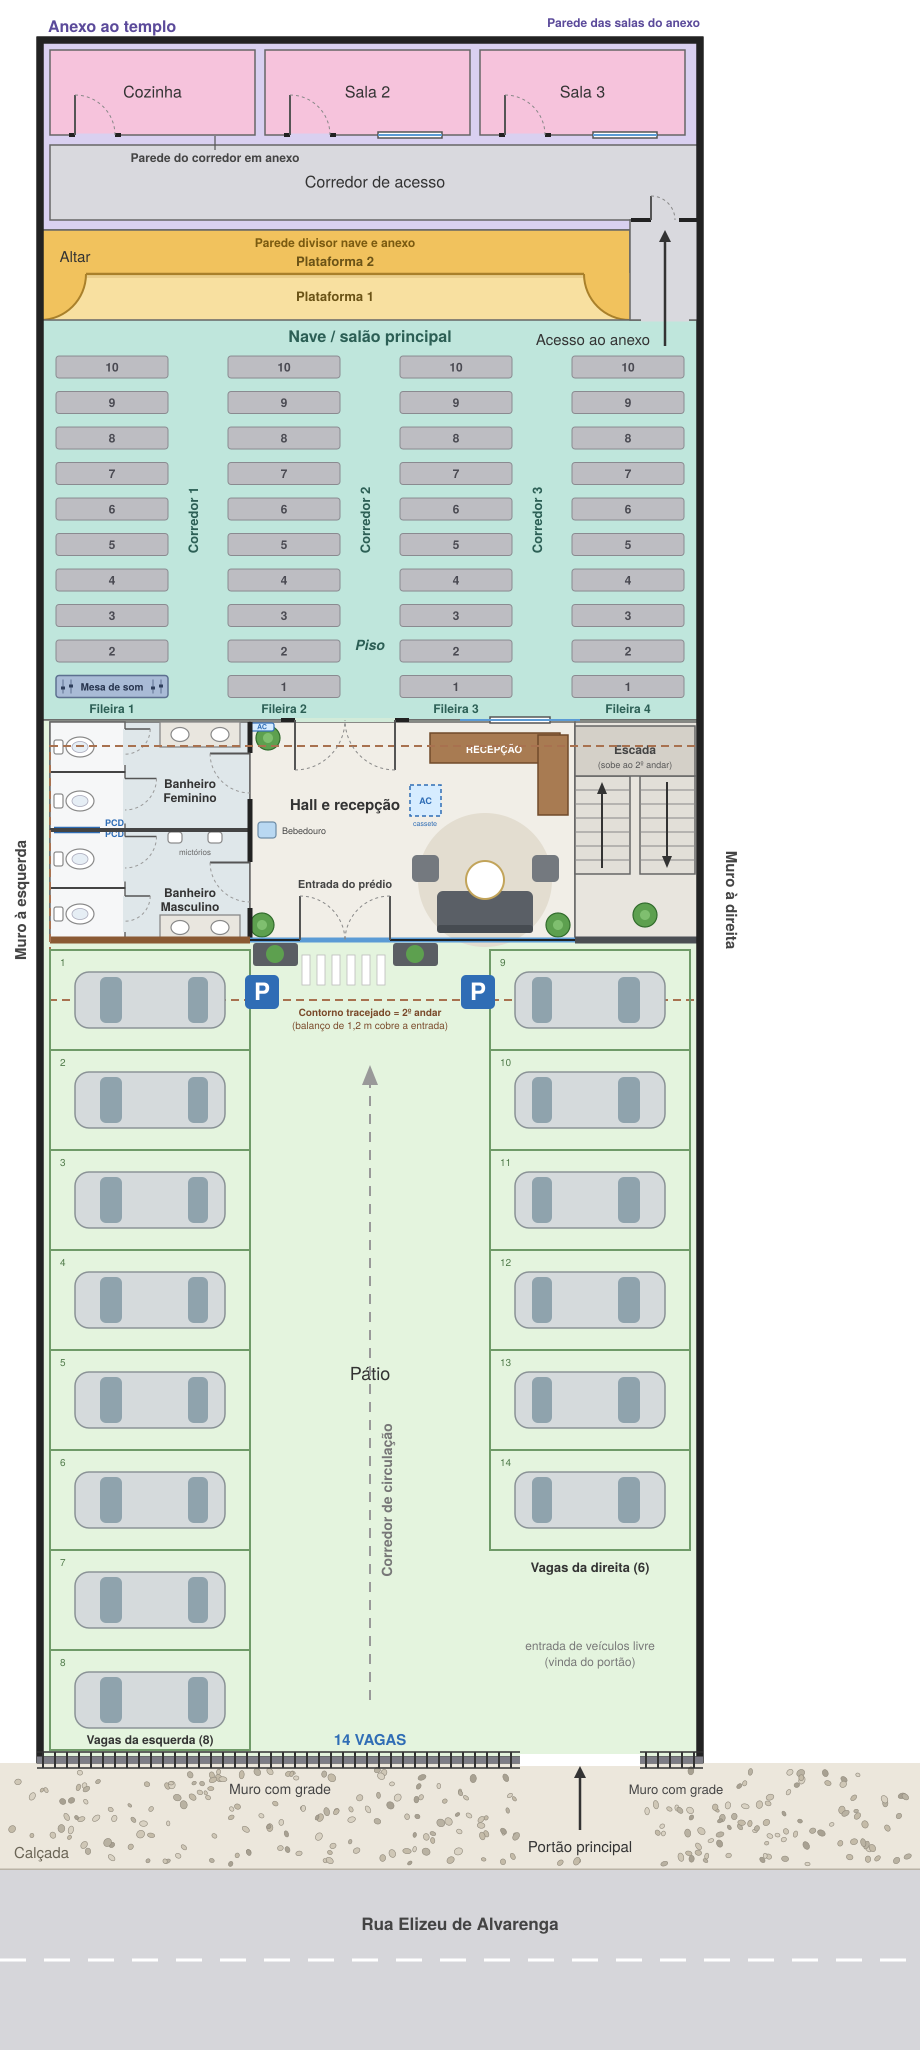
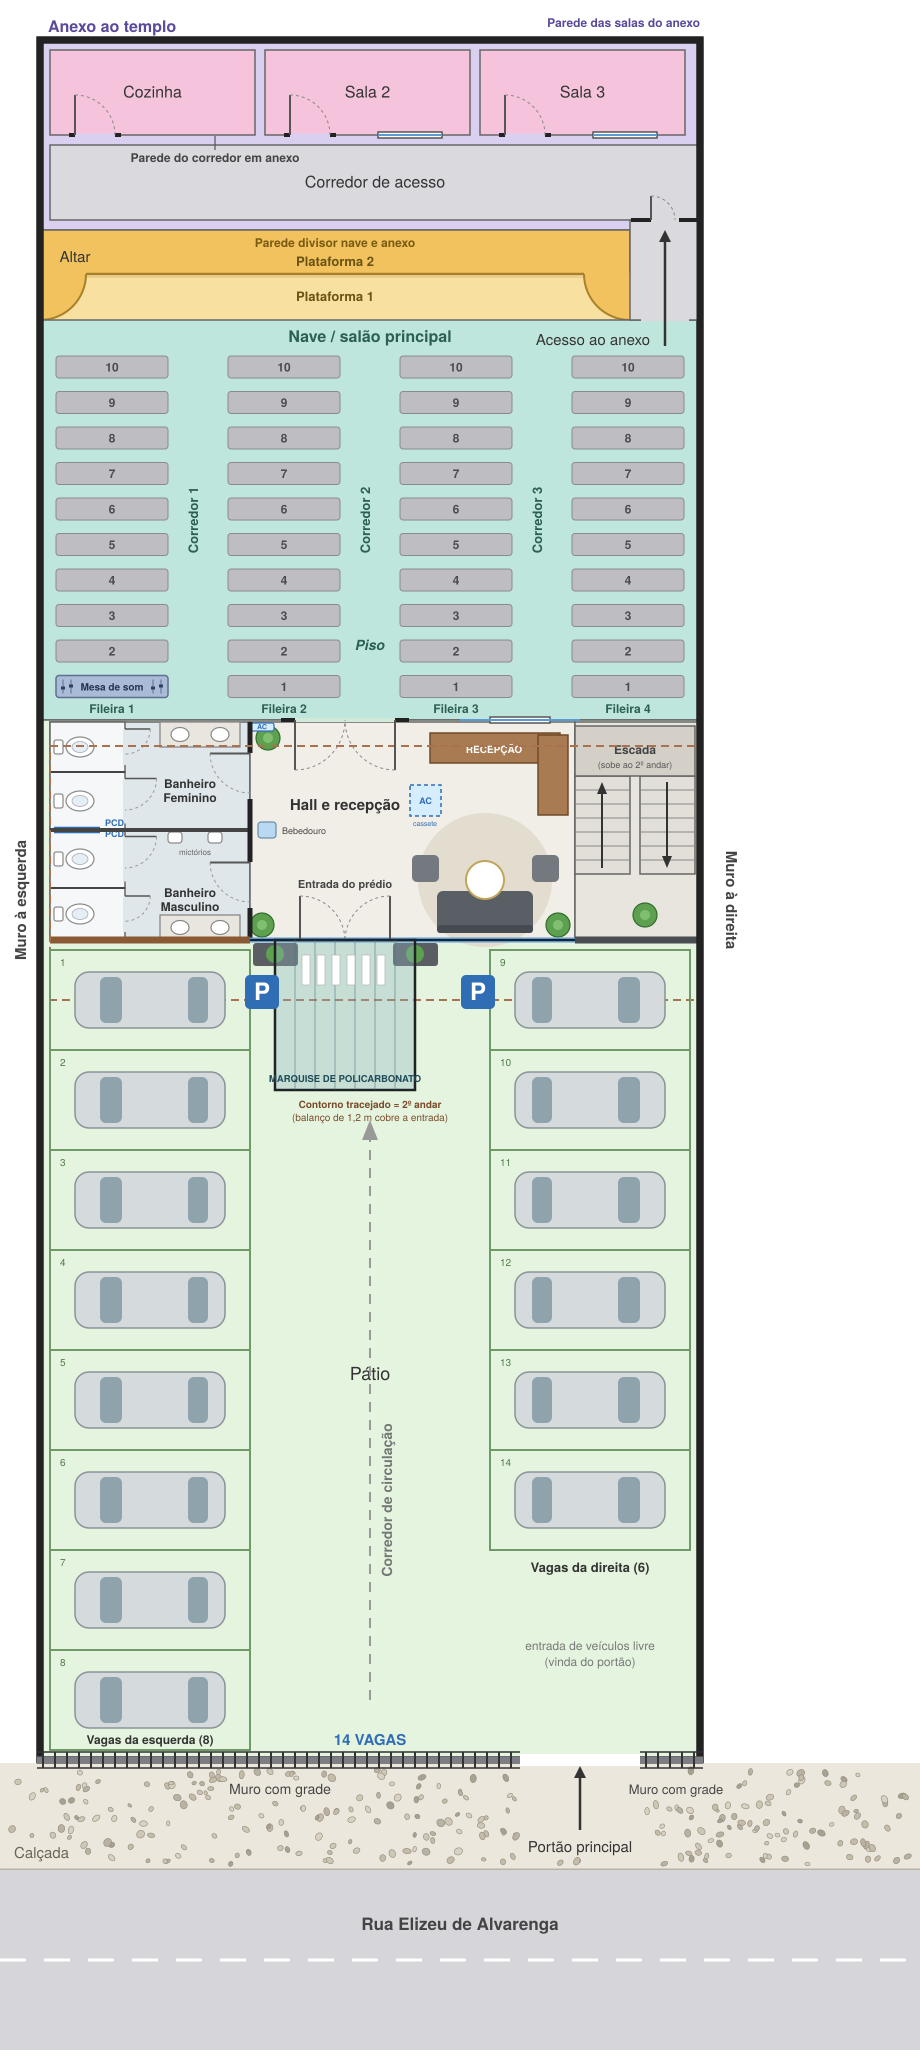
Projeto 1: marquise de policarbonato sobre a porta de entrada
Claude-Session: https://claude.ai/code/session_015gh4tS64wXyJ2ghbw66cFX

Changed region(s): [[0.2739, 0.4329, 0.487, 0.5565]]

diff --git a/projeto1/maquete.html b/projeto1/maquete.html
@@ -798,6 +798,27 @@
     // jardineiras na entrada (sob o balanço)
     [275, 415].forEach(function(px){ box(0.9, 0.5, 0.45, stoneC, X(px), 0.25, Z(955)); plant(X(px), Z(955), 0.5, 1.3); });
     // ================= 2º ANDAR =================
+    // marquise de policarbonato (fumê) em balanço sobre a porta de entrada: estrutura de aço preto, caimento para a frente, LED na borda
+    (function(){
+      var W = 140 * S, L = (1090 - 940) * S - 0.1, hw = 2.9, hf = 2.6;
+      var th = Math.atan((hw - hf) / L);
+      var cv = document.createElement('canvas'); cv.width = 64; cv.height = 64; var g = cv.getContext('2d');
+      g.fillStyle = '#9fbdc6'; g.fillRect(0, 0, 64, 64);
+      for (var k = 0; k < 8; k++){ g.fillStyle = 'rgba(40,70,82,.22)'; g.fillRect(k * 8, 0, 1.6, 64); }
+      var tx = new THREE.CanvasTexture(cv); tx.wrapS = tx.wrapT = THREE.RepeatWrapping; tx.repeat.set(W / 0.4, 1);
+      var pc = new THREE.MeshStandardMaterial({ map: tx, color: 0x8fb4bf, transparent: true, opacity: 0.58, roughness: 0.18, metalness: 0.25, side: THREE.DoubleSide });
+      var mg = new THREE.Group(); mg.position.set(X(345), hw, Z(940) + 0.1); mg.rotation.x = th;
+      function part(w, hh, d, x, y, z, m){ var q = new THREE.Mesh(new THREE.BoxGeometry(w, hh, d), m); q.position.set(x, y, z); q.castShadow = false; mg.add(q); return q; }
+      var steel = mat(blk, { roughness: 0.45, metalness: 0.4 });
+      part(W, 0.035, L, 0, 0.03, L / 2, pc);
+      [-W / 2, W / 2].forEach(function(sx){ part(0.07, 0.11, L, sx, -0.03, L / 2, steel); });
+      [0.25, 0.5, 0.75].forEach(function(f){ part(W, 0.05, 0.05, 0, -0.01, L * f, steel); });
+      part(W + 0.14, 0.13, 0.07, 0, 0.0, 0.03, steel);
+      part(W + 0.14, 0.16, 0.08, 0, 0.0, L, steel);
+      part(W, 0.02, 0.025, 0, -0.1, L - 0.03, new THREE.MeshBasicMaterial({ color: 0xfff1c4 }));
+      root.add(mg);
+      [[-0.9, 0.55], [0.9, 0.55], [0, 1.9]].forEach(function(q){ var m = new THREE.Mesh(new THREE.CylinderGeometry(0.07, 0.07, 0.02, 16), ledM); m.position.set(X(345) + q[0], 2.55 - 0.12 * q[1], Z(940) + 0.1 + q[1] * L / 2.1); root.add(m); });
+    })();
     var nUp = root.children.length;
     // (2º andar) forro de madeira sob o balanço + spots de LED
     box(650 * S, 0.04, 60 * S, 0, X(375), BH - 0.02, Z(970), null, { material: slatMat(650 * S / 0.4, 1), cast: false });
@@ -952,6 +973,7 @@
   label('Acesso ao anexo', 665, 270, 6.2, 3.2);
   label('Banheiro Feminino', 150, 776, 2.6, 3.0); label('Banheiro Masculino', 150, 885, 2.6, 3.0);
   label('Hall e recepção', 330, 800, 2.7, 2.6); label('Escada', 635, 826, 3.2, 1.6); label('Entrada do prédio', 345, 950, 3.4, 3.2);
+  label('Marquise de policarbonato', 345, 1075, 3.3, 3.6).userData.hideIn = ['andar2', 'sala', 'hall'];
   label('Bebedouro', 262, 830, 1.5, 1.7); label('Ar-condicionado', 480, 735, 2.4, 2.4);
   labelGroup.children.slice(-7).forEach(function(s){ s.userData.hideIn = ['andar2', 'sala']; });
   // (rótulos do térreo acima somem nas vistas do 2º andar)
